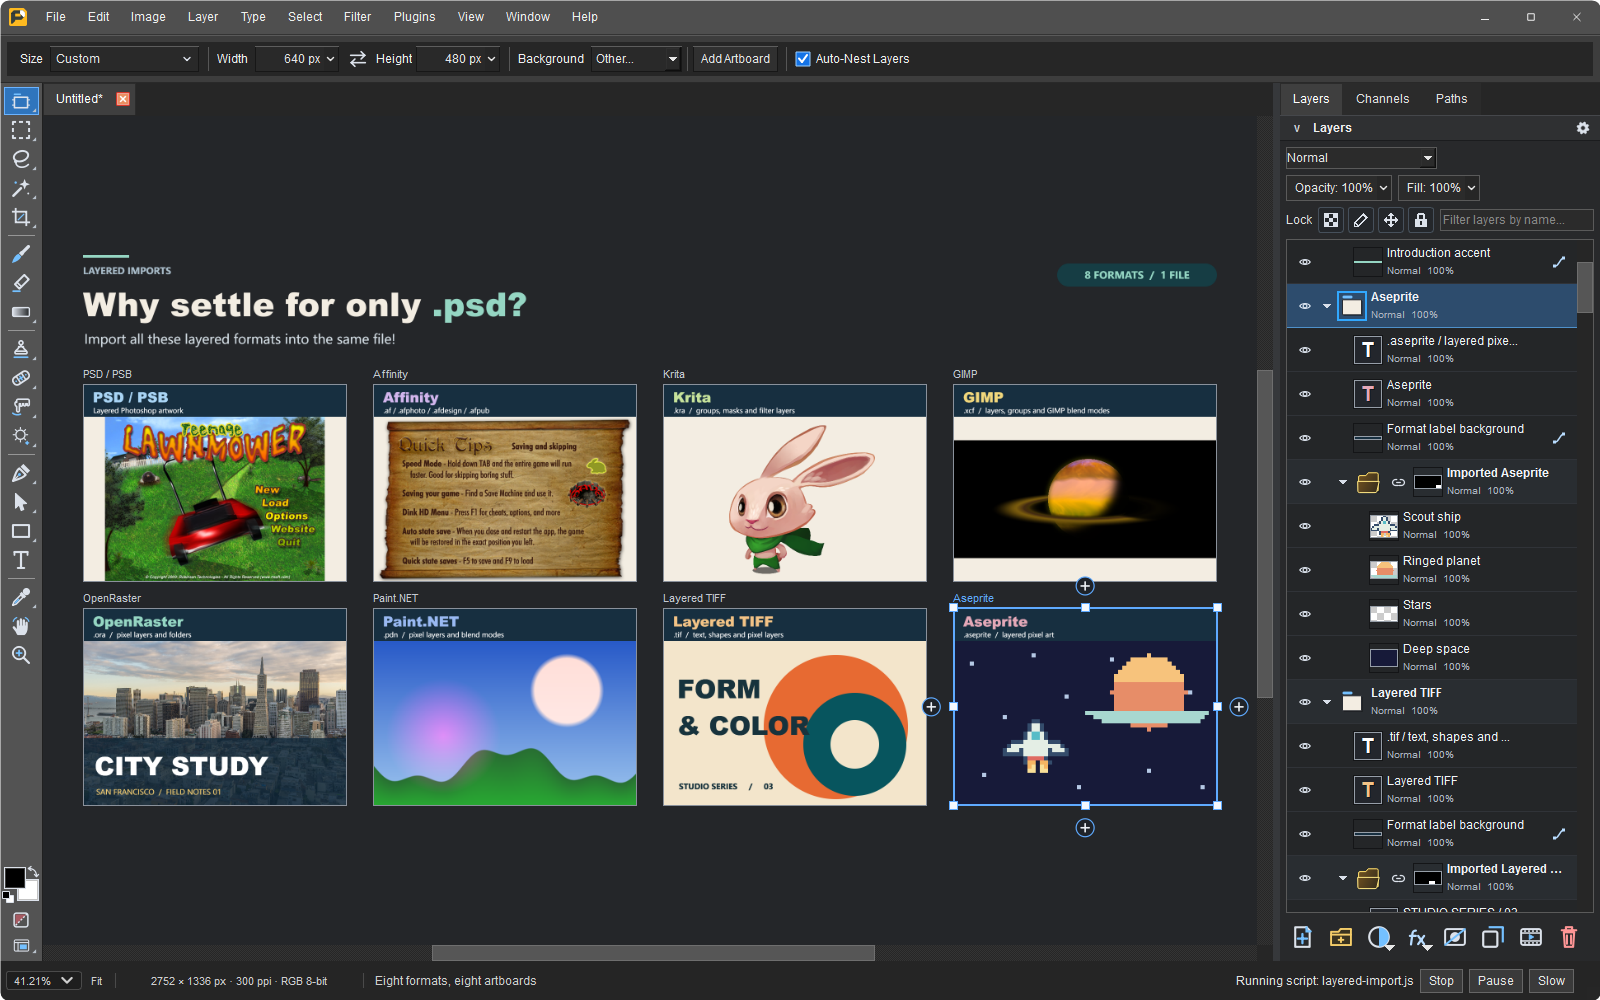
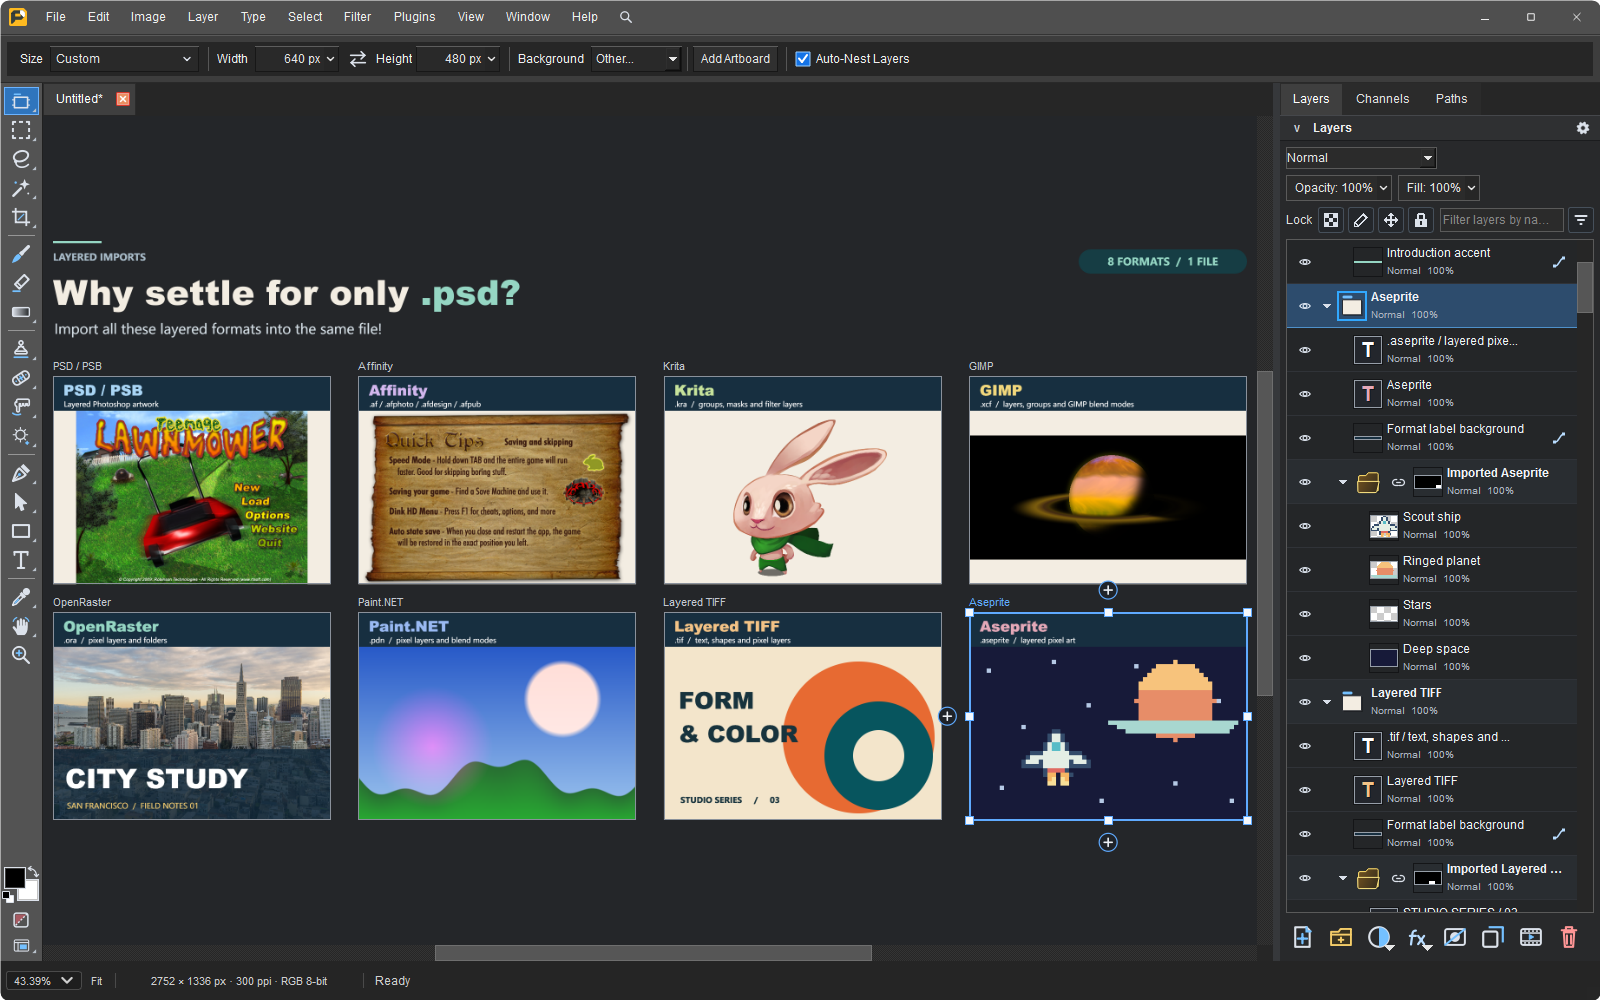
Recapture README shots without the script run indicator; Properties shows group and artboard bounds
captureWindow leaves out the capturing script's status-bar indicator; Layer Styles, G'MIC, layered import and artboards scenes tidied.

diff --git a/scripts/dev/readme-shots/layered-import.js b/scripts/dev/readme-shots/layered-import.js
@@ -53,11 +53,12 @@ var ora = saveSource(source, '.ora');
 // Layered TIFF: live vector geometry and typography in an abstract print design.
 source = newSource(640, 400, '#f3e5cb');
 source.activeLayer.name = 'Cream paper';
-source.addShape('Orange disc', {type: 'ellipse', x: 244, y: 34, width: 350, height: 350}, {fill: '#e76a32'});
-source.addShape('Teal disc', {type: 'ellipse', x: 340, y: 126, width: 250, height: 250}, {fill: '#07555e'});
-source.addShape('Paper aperture', {type: 'ellipse', x: 406, y: 192, width: 118, height: 118}, {fill: '#f3e5cb'});
-source.addTextLayer('FORM\n& COLOR', {font: 'Arial Black', size: 63, color: '#17333d',
-  x: 34, y: 70, box: {width: 425, height: 184}});
+// The lettering stays left of the teal disc: dark type over it would vanish.
+source.addShape('Orange disc', {type: 'ellipse', x: 274, y: 34, width: 350, height: 350}, {fill: '#e76a32'});
+source.addShape('Teal disc', {type: 'ellipse', x: 370, y: 126, width: 250, height: 250}, {fill: '#07555e'});
+source.addShape('Paper aperture', {type: 'ellipse', x: 436, y: 192, width: 118, height: 118}, {fill: '#f3e5cb'});
+source.addTextLayer('FORM\n& COLOR', {font: 'Arial Black', size: 54, color: '#17333d',
+  x: 34, y: 84, box: {width: 330, height: 160}});
 source.addTextLayer('STUDIO SERIES     /     03', {font: 'Segoe UI', bold: true, size: 20,
   color: '#17333d', x: 38, y: 338, box: {width: 540, height: 36}});
 var tiff = saveSource(source, '.tif', {layers: true});
@@ -235,7 +236,7 @@ setTimeout(function () {
   patchy.ui.fitOnScreen();
   setTimeout(function () {
     doc.activeLayer = boards[boards.length - 1];
-    patchy.ui.setStatusMessage('Eight formats, eight artboards');
+    patchy.ui.setStatusMessage('Ready');
     if (!patchy.ui.captureWindow(out)) { throw new Error('captureWindow failed: ' + out); }
     console.log('captured eight imported formats in a 4 x 2 artboard grid: ' + out);
   }, 400);

diff --git a/scripts/dev/readme-shots/artboards.js b/scripts/dev/readme-shots/artboards.js
@@ -26,7 +26,7 @@ app.documents.forEach(function (other) {
   if (other.id !== doc.id && !other.path && !other.modified) { other.close(); }
 });
 doc.activate();
-patchy.ui.setSidePanelWidth(300);
+patchy.ui.setSidePanelWidth(360);
 
 // Story on the left; banner across the top right; post and icon below the banner.
 var story = doc.addArtboard('Story', {x: 0, y: 0, width: 1080, height: 1920}, {background: 'white'});
@@ -102,6 +102,9 @@ text(icon, 'HC', {font: HEADLINE, size: 170, color: CREAM, align: 'center',
 doc.activeLayer = postPhoto;
 doc.activeLayer = post;
 app.runCommand('tools.artboard');
+// Without the Color group, Layers and Properties get the column's height.
+patchy.ui.closePanel('color');
+patchy.ui.closePanel('palette');
 patchy.ui.expandPanel('properties');
 
 setTimeout(function () {

diff --git a/scripts/bundled/patchy.d.ts b/scripts/bundled/patchy.d.ts
@@ -1735,7 +1735,9 @@ interface PatchyUi {
   setSidePanelWidth(width: number): void;
   /**
    * Saves a PNG capture of the main window (never raises or focuses it).
-   * Waits up to 60 seconds for enabled Dynamic Vector Preview to settle. Returns false
+   * Waits up to 60 seconds for enabled Dynamic Vector Preview to settle. The capture leaves
+   * out the running script's own status-bar indicator (Running script, Stop, Pause, Slow).
+   * Returns false
    * on timeout or write failure; throws on an empty path.
    */
   captureWindow(path: string): boolean;

diff --git a/tests/ui/scripting_tests_manager_automation.cpp b/tests/ui/scripting_tests_manager_automation.cpp
@@ -1064,6 +1064,63 @@ void ui_script_ui_staging_apis() {
   CHECK(!run_script(window, QStringLiteral("patchy.ui.captureWindow('');")));
 }
 
+// Records hide and show events of one widget, and whether a file existed at each.
+class VisibilityLog : public QObject {
+public:
+  VisibilityLog(QWidget& widget, QString path) : path_(std::move(path)) { widget.installEventFilter(this); }
+  QStringList events;
+
+protected:
+  bool eventFilter(QObject* watched, QEvent* event) override {
+    if (event->type() == QEvent::Hide || event->type() == QEvent::Show) {
+      events << QStringLiteral("%1:%2").arg(event->type() == QEvent::Hide ? QStringLiteral("hide")
+                                                                         : QStringLiteral("show"),
+                                            QFile::exists(path_) ? QStringLiteral("file")
+                                                                 : QStringLiteral("nofile"));
+    }
+    return QObject::eventFilter(watched, event);
+  }
+
+private:
+  QString path_;
+};
+
+// An unattended run in a visible window shows its Running script / Stop / Pause / Slow
+// indicator in the status bar; patchy.ui.captureWindow hides it for the grab only, so
+// README and other staged captures show the workspace, then shows it again.
+void ui_script_capture_window_omits_its_run_indicator() {
+  patchy::ui::MainWindow window;
+  show_window(window);
+  auto& host = window.script_engine_host();
+  patchy::ui::ScriptEngineHost::RunOptions options;
+  options.unattended = true;
+  host.run_source(QStringLiteral("console.log('warm up');"), options);  // creates the indicator
+  QApplication::processEvents();
+  auto* activity = window.findChild<QWidget*>(QStringLiteral("scriptActivity"));
+  CHECK(activity != nullptr);
+  if (activity == nullptr) {
+    return;
+  }
+  const auto capture_path = QStringLiteral("test-artifacts/ui_script_capture_omits_run_indicator.png");
+  QFile::remove(capture_path);
+  VisibilityLog log(*activity, capture_path);
+  host.run_source(QStringLiteral(
+                      "if (!patchy.ui.captureWindow('test-artifacts/ui_script_capture_omits_run_indicator.png')) {"
+                      "  throw new Error('captureWindow returned false'); }"),
+                  options);
+  QApplication::processEvents();
+  CHECK(!host.last_run_had_error());
+  CHECK(QFile::exists(capture_path));
+  // Shown when the run starts, hidden before the PNG is written, shown again once it
+  // exists, and hidden when the run ends.
+  const QStringList expected{QStringLiteral("show:nofile"), QStringLiteral("hide:nofile"),
+                             QStringLiteral("show:file"), QStringLiteral("hide:file")};
+  CHECK(log.events == expected);
+  if (log.events != expected) {
+    std::cerr << "  indicator events: " << log.events.join(QStringLiteral(", ")).toStdString() << '\n';
+  }
+}
+
 void ui_script_ui_side_panels_expand_collapse_close() {
   patchy::ui::MainWindow window;
   show_window(window);
@@ -1719,6 +1776,7 @@ std::vector<patchy::test::TestCase> scripting_tests_part3() {
       {"ui_script_ui_view_zoom", ui_script_ui_view_zoom},
       {"ui_script_preview_exposure_drives_the_32_bit_view", ui_script_preview_exposure_drives_the_32_bit_view},
       {"ui_script_ui_staging_apis", ui_script_ui_staging_apis},
+      {"ui_script_capture_window_omits_its_run_indicator", ui_script_capture_window_omits_its_run_indicator},
       {"ui_script_ui_side_panels_expand_collapse_close", ui_script_ui_side_panels_expand_collapse_close},
       {"ui_script_ui_expand_panel_in_cli_capture", ui_script_ui_expand_panel_in_cli_capture},
       {"ui_headless_text_fonts_match_windowed_if_available", ui_headless_text_fonts_match_windowed_if_available},

diff --git a/tests/ui/artboard_tests.cpp b/tests/ui/artboard_tests.cpp
@@ -441,6 +441,10 @@ void ui_artboard_layers_panel_rows_and_properties_panel() {
   CHECK(!panel->isHidden());
   CHECK(x->value() == 10 && width->value() == 120);
   CHECK(background->currentData().toString() == QStringLiteral("black"));
+  // The geometry line reports the artboard's rect, not the empty pixel bounds of a group.
+  auto* geometry = window.findChild<QLabel*>(QStringLiteral("activeLayerGeometryLabel"));
+  CHECK(geometry != nullptr &&
+        geometry->text().contains(QStringLiteral("Bounds: 120 x 80 at 10, 20")));
   x->setValue(25);
   QApplication::processEvents();
   const auto& document = MainWindowTestAccess::document(window);
@@ -456,6 +460,33 @@ void ui_artboard_layers_panel_rows_and_properties_panel() {
   MainWindowTestAccess::select_layers(window, {child}, child);
   QApplication::processEvents();
   CHECK(panel->isHidden());
+}
+
+// A plain group's Properties bounds are the extent of the layers inside it (a group has
+// no pixels of its own, so its own bounds are empty).
+void ui_properties_group_bounds_cover_its_layers() {
+  patchy::ui::MainWindow window;
+  show_window(window);
+  auto seed = board_document(300, 200);
+  patchy::Layer group(seed.allocate_layer_id(), "Folder", patchy::LayerKind::Group);
+  for (const auto rect : {patchy::Rect{20, 30, 40, 20}, patchy::Rect{100, 10, 30, 90}}) {
+    patchy::Layer child(seed.allocate_layer_id(), "Part",
+                        solid_pixels(rect.width, rect.height, patchy::PixelFormat::rgba8(), QColor(200, 40, 40)));
+    child.set_bounds(rect);
+    group.add_child(std::move(child));
+  }
+  const auto group_id = group.id();
+  seed.layers().push_back(std::move(group));
+  window.add_document_session(std::move(seed), QStringLiteral("Group Bounds"));
+  QApplication::processEvents();
+  MainWindowTestAccess::select_layers(window, {group_id}, group_id);
+  QApplication::processEvents();
+  auto* geometry = window.findChild<QLabel*>(QStringLiteral("activeLayerGeometryLabel"));
+  CHECK(geometry != nullptr);
+  if (geometry != nullptr) {
+    CHECK(geometry->text().contains(QStringLiteral("Bounds: 110 x 90 at 20, 10")));
+    CHECK(geometry->text().contains(QStringLiteral("Contents: 2 layers")));
+  }
 }
 
 // The Properties panel's artboard X/Y/W/H fields scrub like the options bar's (issue 46):
@@ -2695,6 +2726,7 @@ std::vector<patchy::test::TestCase> artboard_ui_tests() {
       {"ui_artboard_move_tool_moves_artboards_and_auto_nests", ui_artboard_move_tool_moves_artboards_and_auto_nests},
       {"ui_artboard_prevent_auto_nesting_keeps_layer_in_place", ui_artboard_prevent_auto_nesting_keeps_layer_in_place},
       {"ui_artboard_layers_panel_rows_and_properties_panel", ui_artboard_layers_panel_rows_and_properties_panel},
+      {"ui_properties_group_bounds_cover_its_layers", ui_properties_group_bounds_cover_its_layers},
       {"ui_artboard_properties_fields_scrub_as_one_undo_step", ui_artboard_properties_fields_scrub_as_one_undo_step},
       {"ui_artboard_properties_scrub_previews_like_the_handle_drag",
        ui_artboard_properties_scrub_previews_like_the_handle_drag},

diff --git a/tests/ui/readme_screenshot_tests_classic.cpp b/tests/ui/readme_screenshot_tests_classic.cpp
@@ -571,9 +571,10 @@ void shot_readme_layer_styles() {
     categories->setCurrentItem(gradient_item);
     QApplication::processEvents();
 
-    // Right of center so the stop picker fits on the left without covering
-    // the dialog (or the layer list's fx badges).
-    const QPoint dialog_offset(560, 210);
+    // Right of center so the stop picker (about 640 px wide) fits on the left
+    // without covering the dialog's effect list, and the layer list's fx badges
+    // stay visible past its right edge.
+    const QPoint dialog_offset(664, 210);
     dialog->move(window.geometry().topLeft() + dialog_offset);
     QApplication::processEvents();
 
@@ -1724,13 +1725,13 @@ void shot_readme_gmic() {
   const int seam = width / 2;
   patchy::ui::MainWindow window;
   show_readme_shot_window(window);
-  // Wider than the other scenes: this capture spans both README columns. The dock
-  // is widened under the dialog so the whole photo stays in view beside it.
-  window.resize(1920, 1080);
+  // The same 1600 x 1000 as the other scenes, so gallery rows line up. The dock is
+  // widened under the dialog so the whole photo stays in view beside it.
+  window.resize(1600, 1000);
   QApplication::processEvents();
   window.add_document_session(std::move(document), QStringLiteral("havana_street.jpg"));
   close_untitled_start_tab(window);
-  patchy::ui::MainWindowTestAccess::set_right_dock_stack_width(window, 880);
+  patchy::ui::MainWindowTestAccess::set_right_dock_stack_width(window, 820);
   QApplication::processEvents();
   auto* canvas = require_canvas(window);
   patchy::PixelBuffer mask(width, height, patchy::PixelFormat::gray8());
@@ -1768,7 +1769,7 @@ void shot_readme_gmic() {
       // strokes that still leave the car and the buildings readable.
       CHECK(dialog->select_filter("fx_rodilius",
                                   {"7", "8", "300", "9", "0", "0", "1", "0", "0"}));
-      dialog->resize(880, 800);
+      dialog->resize(820, 780);
       auto* tree = dialog->findChild<QTreeWidget*>(QStringLiteral("gmicFilterTree"));
       CHECK(tree != nullptr && tree->currentItem() != nullptr);
       tree->scrollToItem(tree->currentItem(), QAbstractItemView::PositionAtCenter);
@@ -1778,7 +1779,7 @@ void shot_readme_gmic() {
       // One full-quality run lands at once; let the canvas drop its badge.
       process_events_for(1000);
       CHECK(pixel_at(left_probe.x(), left_probe.y()) == left_before);
-      const QPoint offset(window.width() - dialog->width() - 12, 150);
+      const QPoint offset(window.width() - dialog->width() - 12, 140);
       dialog->move(window.geometry().topLeft() + offset);
       QApplication::processEvents();
       reset_readme_status_bar(window);

diff --git a/src/ui/main_window_layer_panel.cpp b/src/ui/main_window_layer_panel.cpp
@@ -964,6 +964,22 @@ QString rect_summary(Rect rect) {
   return QObject::tr("%1 x %2 at %3, %4").arg(rect.width).arg(rect.height).arg(rect.x).arg(rect.y);
 }
 
+// The bounds Properties reports: an artboard's rect, a group's content extent (a group
+// holds no pixels of its own, so its bounds() is empty), otherwise the layer's own.
+Rect properties_layer_bounds(const Layer& layer) {
+  if (const auto& artboard = layer.artboard(); artboard.has_value()) {
+    return artboard->rect;
+  }
+  if (layer.kind() != LayerKind::Group) {
+    return layer.bounds();
+  }
+  Rect bounds{};
+  for (const auto& child : layer.children()) {
+    bounds = unite_rect(bounds, properties_layer_bounds(child));
+  }
+  return bounds;
+}
+
 QString layer_style_summary(const LayerStyle& style) {
   QStringList effects;
   if (!style.drop_shadows.empty()) {
@@ -6073,7 +6089,7 @@ void MainWindow::refresh_document_info() {
                                 .arg(static_cast<int>(std::round(layer->opacity() * 100.0F)))
                                 .arg(layer->visible() ? tr("Visible") : tr("Hidden"))
                                 .arg(lock_state));
-    QString geometry = tr("Geometry: Bounds: %1").arg(rect_summary(layer->bounds()));
+    QString geometry = tr("Geometry: Bounds: %1").arg(rect_summary(properties_layer_bounds(*layer)));
     if (layer->kind() == LayerKind::Pixel || layer->kind() == LayerKind::Text) {
       geometry += tr(" | Pixels: %1").arg(pixel_format_name(layer->pixels().format()));
     } else if (layer->kind() == LayerKind::Group) {

diff --git a/src/ui/script_engine.cpp b/src/ui/script_engine.cpp
@@ -4163,7 +4163,18 @@ bool ScriptEngineHost::capture_window_to_file(const QString& path) {
   // them first; user input stays excluded so the capture state cannot shift.
   QCoreApplication::sendPostedEvents();
   QCoreApplication::processEvents(QEventLoop::ExcludeUserInputEvents);
-  return window_.save_debug_screenshot(path);
+  // The capture shows the workspace, not the capturing script's own status-bar
+  // indicator (Running script, Stop, Pause, Slow): hide it for the grab only.
+  const bool hide_activity = script_activity_ && script_activity_->isVisible();
+  if (hide_activity) {
+    script_activity_->hide();
+    QCoreApplication::sendPostedEvents(nullptr, QEvent::LayoutRequest);
+  }
+  const bool saved = window_.save_debug_screenshot(path);
+  if (hide_activity) {
+    script_activity_->show();
+  }
+  return saved;
 }
 
 void ScriptEngineHost::reveal_layer_row(std::int64_t session_id, LayerId layer_id) {

diff --git a/docs/readme-showcase.md b/docs/readme-showcase.md
@@ -27,7 +27,9 @@ to the release that will ship them ([packaging/linux/README.md](../packaging/lin
 The driver accepts image base names or full `shot_readme_*` names. `-Scene hero`
 regenerates `smart_filters.png`, which the README uses directly. Missing local
 fixtures are reported as skips during a full run; an explicitly selected script
-scene fails if its fixture is missing. KPT runs only with `-IncludeLegacyPlugins`
+scene fails if its fixture is missing. `PATCHY_LOCAL_FIXTURES_DIR` points the driver at another
+checkout's `local-test-fixtures` (a worktree uses the main checkout's), as it does for the tests.
+KPT runs only with `-IncludeLegacyPlugins`
 or `-Scene plugin_kpt5`. It requires the Windows 32-bit legacy helper.
 
 | Image | Recipe | Input |
@@ -79,7 +81,9 @@ included and the street excluded; check the capture after a model or engine chan
 One-pixel marching ants vanish at thumbnail size, so the script inverts the selection,
 fills a gray Saturation-mode layer and a 45% black layer through it, and inverts back
 (fill layers rather than a filter on the photo, so the photo layer stays untouched; a
-Desaturate menu command run from the script did not apply). The status bar shows "Running script", as in the KPT shot.
+Desaturate menu command run from the script did not apply). `patchy.ui.captureWindow` leaves the script's own
+status-bar indicator (Running script, Stop, Pause, Slow) out of every script-driven capture; scenes set the
+status message to "Ready".
 
 The Artboards scene builds a fictional car-weekend campaign as four artboards, one per
 background type: Story (white), Banner (black), Post (custom cream) and Icon (transparent,
@@ -131,8 +135,8 @@ The G'MIC scene opens the real Filter Library (scripts cannot open it) with the 
 of the street photo selected, picks Rodilius with Lighter strokes, waits for the full-quality
 preview to land on the layer, and checks that the left half is untouched, so the canvas shows
 the original beside the result. The photo stays under the 1.5 megapixel draft threshold, so
-the first preview is the final one. The right dock is widened under the dialog so the whole
-photo stays in view beside it. Builds without the engine report a skip.
+the first preview is the final one. The window is the usual 1600 x 1000; the right dock is widened
+under the dialog so the whole photo stays in view beside it. Builds without the engine report a skip.
 
 The Export for Web scene (`tests/ui/readme_screenshot_tests_showcase.cpp`, with Perspective
 Planes) builds an eight-layer day-to-blue-hour time-lapse from the San Francisco photo (graded,

diff --git a/scripts/bundled/scripting-guide.md b/scripts/bundled/scripting-guide.md
@@ -615,7 +615,7 @@ doc.exportArtboards("out", {format: "png"});
 | `patchy.ui.playSound(path)` | Plays a `.wav` file (10 MB max). Relative paths resolve like `include()`. Throws if the file is missing or not a WAV. |
 | `patchy.ui.setWindowSize(w, h)` | Resizes the main window. Meant for automation that captures the app at a known size. The window never goes below its minimum size, so a short request can come out taller. |
 | `patchy.ui.setSidePanelWidth(px)` | Sets the width of the right panel stack (Layers/Channels/Paths). |
-| `patchy.ui.captureWindow(path)` | Saves a PNG screenshot without raising or focusing the window. Waits up to 60 seconds for enabled Dynamic Vector Preview to settle; returns false on timeout or write failure. |
+| `patchy.ui.captureWindow(path)` | Saves a PNG screenshot without raising or focusing the window. The capture leaves out the running script's own status-bar indicator (Running script, Stop, Pause, Slow). Waits up to 60 seconds for enabled Dynamic Vector Preview to settle; returns false on timeout or write failure. |
 | `patchy.ui.setStatusMessage(text)` | Shows a message in the status bar. Handy for progress readouts in long batches. |
 | `patchy.ui.expandPanel(name)` | Opens a panel of the right column like its Window menu entry: reopens it if closed, brings its tab to the front, and expands it. Names: `"layers"`, `"channels"`, `"paths"`, `"history"`, `"properties"`, `"info"`, `"palette"`, `"color"` (exact and lowercase; anything else throws). Layers, Channels and Paths share one tab group, so they expand together. Use it before `captureWindow` to show, say, the Properties panel. |
 | `patchy.ui.collapsePanel(name)` / `patchy.ui.closePanel(name)` | Collapse the panel to its title row, or close it. Same names. |

diff --git a/docs/scripting-api-changes.md b/docs/scripting-api-changes.md
@@ -23,6 +23,9 @@ when `python scripts/check-docs.py` reports a broken link in it.
 
 Every entry below is API 1.
 
+2026-11-09 (behavioral): `patchy.ui.captureWindow` leaves the running script's own status-bar
+indicator (Running script, Stop, Pause, Slow) out of the capture; it shows again right after. Pinned
+by `ui_script_capture_window_omits_its_run_indicator`.
 2026-11-08 (additive): `app.buildBookPdf(folder, path, options)` writes the PDF of a Scan a Book
 to PDF project folder ([book-scan.md](book-scan.md)). Its option keys (`mode` with `"color"`,
 `"gray"`, `"bw"`; `threshold`, `dpi`, `imageQuality`, `pageSize` with `"median"`, `"largest"`,
